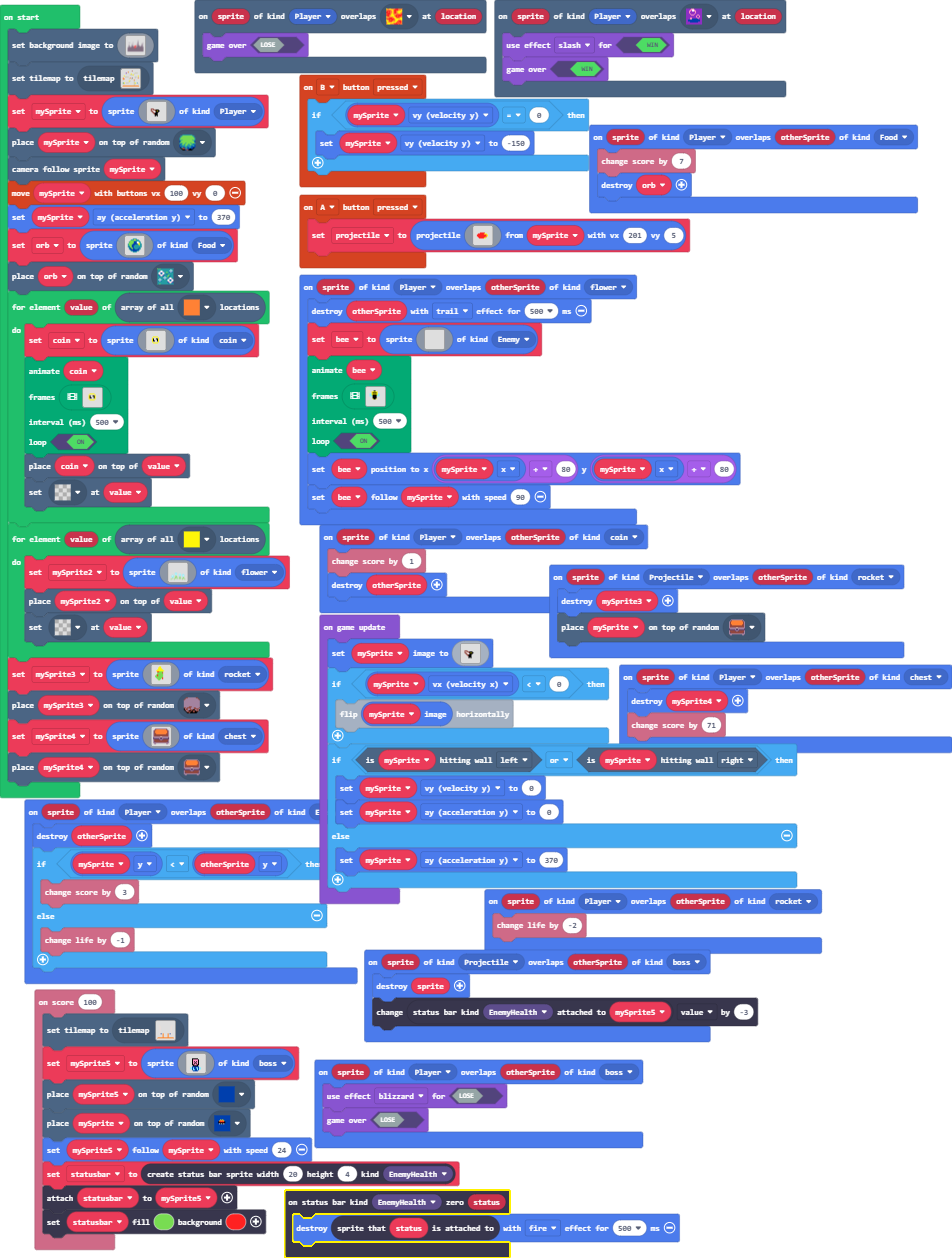
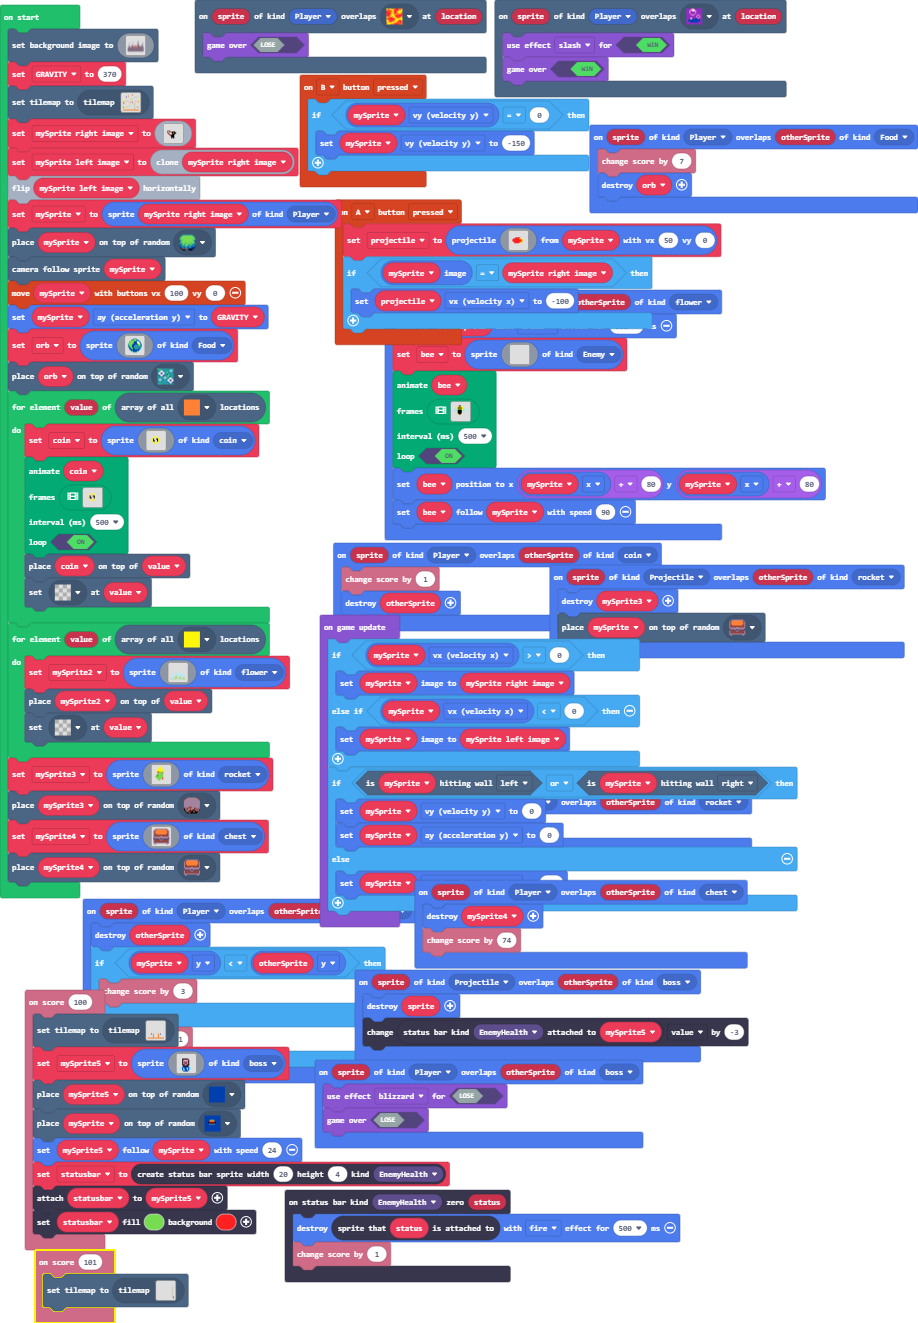
VY

diff --git a/main.ts b/main.ts
@@ -8,6 +8,9 @@ namespace SpriteKind {
 scene.onOverlapTile(SpriteKind.Player, assets.tile`myTile0`, function (sprite, location) {
     game.gameOver(false)
 })
+info.onScore(101, function () {
+    tiles.setCurrentTilemap(tilemap`level6`)
+})
 sprites.onOverlap(SpriteKind.Player, SpriteKind.boss, function (sprite, otherSprite) {
     game.setGameOverEffect(false, effects.blizzard)
     game.gameOver(false)
@@ -39,13 +42,17 @@ controller.A.onEvent(ControllerButtonEvent.Pressed, function () {
         . . . . . . . . . . . . . . . . 
         . . . . . . . . . . . . . . . . 
         . . . . . . . . . . . . . . . . 
-        `, mySprite, 201, 5)
+        `, mySprite, 50, 0)
+    if (mySprite.image == mySprite_right_image) {
+        projectile.vx = -100
+    }
 })
 sprites.onOverlap(SpriteKind.Player, SpriteKind.rocket, function (sprite, otherSprite) {
     info.changeLifeBy(-2)
 })
 statusbars.onZero(StatusBarKind.EnemyHealth, function (status) {
     sprites.destroy(status.spriteAttachedTo(), effects.fire, 500)
+    info.changeScoreBy(1)
 })
 scene.onOverlapTile(SpriteKind.Player, sprites.swamp.swampTile13, function (sprite, location) {
     game.setGameOverEffect(true, effects.slash)
@@ -147,7 +154,7 @@ sprites.onOverlap(SpriteKind.Player, SpriteKind.flower, function (sprite, otherS
 })
 sprites.onOverlap(SpriteKind.Player, SpriteKind.chest, function (sprite, otherSprite) {
     sprites.destroy(mySprite4)
-    info.changeScoreBy(71)
+    info.changeScoreBy(74)
 })
 sprites.onOverlap(SpriteKind.Projectile, SpriteKind.boss, function (sprite, otherSprite) {
     sprites.destroy(sprite)
@@ -175,6 +182,7 @@ let mySprite2: Sprite = null
 let coin: Sprite = null
 let orb: Sprite = null
 let mySprite: Sprite = null
+let mySprite_right_image: Image = null
 scene.setBackgroundImage(img`
     ................................................................................................................................................................
     ................................................................................................................................................................
@@ -297,8 +305,9 @@ scene.setBackgroundImage(img`
     cccccccccccccccccccccccccccccccccccccccccccccccccccccccccccccccccccccccccccccccccccccccccccccccccccccccccccccccccccccccccccccccccccccccccccccccccccccccccccccccc
     cccccccccccccccccccccccccccccccccccccccccccccccccccccccccccccccccccccccccccccccccccccccccccccccccccccccccccccccccccccccccccccccccccccccccccccccccccccccccccccccc
     `)
+let GRAVITY = 370
 tiles.setCurrentTilemap(tilemap`level0`)
-mySprite = sprites.create(img`
+mySprite_right_image = img`
     . . . . . . . . . . . . . . . . 
     . . . . . . . . . . . . . . . . 
     . . . . . . . . . . . . . . . . 
@@ -315,11 +324,14 @@ mySprite = sprites.create(img`
     . . . . . . . . . . . . . . . . 
     . . . . . . . . . . . . . . . . 
     . . . . . . . . . . . . . . . . 
-    `, SpriteKind.Player)
+    `
+let mySprite_left_image = mySprite_right_image.clone()
+mySprite_left_image.flipX()
+mySprite = sprites.create(mySprite_right_image, SpriteKind.Player)
 tiles.placeOnRandomTile(mySprite, sprites.builtin.forestTiles0)
 scene.cameraFollowSprite(mySprite)
 controller.moveSprite(mySprite, 100, 0)
-mySprite.ay = 370
+mySprite.ay = GRAVITY
 orb = sprites.create(img`
     . . . . . . . . . . . . . . . . 
     . . . . . . 6 6 6 6 . . . . . . 
@@ -551,26 +563,10 @@ mySprite4 = sprites.create(img`
     `, SpriteKind.chest)
 tiles.placeOnRandomTile(mySprite4, sprites.dungeon.chestClosed)
 game.onUpdate(function () {
-    mySprite.setImage(img`
-        . . . . . . . . . . . . . . . . 
-        . . . . . . . . . . . . . . . . 
-        . . . . . . . . . . . . . . . . 
-        . . . . . . . . . . . . . . . . 
-        . . . . . . . . . . . . . . . . 
-        . . e e e . . . . . . . . . . . 
-        . . e 1 e e e f f f . . . . . . 
-        . . e e 1 1 e f 5 f f . . . . . 
-        . . . e e 1 1 f f f . . . . . . 
-        . . . . e e f f f . . . . . . . 
-        . . . . . e f f f . . . . . . . 
-        . . . . . . f f f . . . . . . . 
-        . . . . . . f . f . . . . . . . 
-        . . . . . . . . . . . . . . . . 
-        . . . . . . . . . . . . . . . . 
-        . . . . . . . . . . . . . . . . 
-        `)
-    if (mySprite.vx < 0) {
-        mySprite.image.flipX()
+    if (mySprite.vx > 0) {
+        mySprite.setImage(mySprite_right_image)
+    } else if (mySprite.vx < 0) {
+        mySprite.setImage(mySprite_left_image)
     }
     if (mySprite.isHittingTile(CollisionDirection.Left) || mySprite.isHittingTile(CollisionDirection.Right)) {
         mySprite.vy = 0

diff --git a/tilemap.g.ts b/tilemap.g.ts
@@ -95,6 +95,63 @@ namespace myTiles {
 . . . . . . . 2 2 . . . . . . . 
 . . . . . . . . . . . . . . . . 
 `, [myTiles.transparency16,myTiles.tile2,myTiles.tile5,myTiles.tile6,myTiles.tile7], TileScale.Sixteen);
+            case "level5":
+            case "level5":return tiles.createTilemap(hex`1000100000000000000000000000000000000000000000000000000000000000000000000000000000000000000000000000000000000000000000000000000000000000000000000000000000000000000000000000000000000000000000000000000000000000000000000000000000000000000000000000000000000000000000000000000000000000000000000000000000000000000000000000000000000000000000000000000000000000000000000000000000000000000000000000000000000000000000000000000000000000000000000000000000000000000000000000000000000000000000000000000000000000000000000000000000000000`, img`
+. . . . . . . . . . . . . . . . 
+. . . . . . . . . . . . . . . . 
+. . . . . . . . . . . . . . . . 
+. . . . . . . . . . . . . . . . 
+. . . . . . . . . . . . . . . . 
+. . . . . . . . . . . . . . . . 
+. . . . . . . . . . . . . . . . 
+. . . . . . . . . . . . . . . . 
+. . . . . . . . . . . . . . . . 
+. . . . . . . . . . . . . . . . 
+. . . . . . . . . . . . . . . . 
+. . . . . . . . . . . . . . . . 
+. . . . . . . . . . . . . . . . 
+. . . . . . . . . . . . . . . . 
+. . . . . . . . . . . . . . . . 
+. . . . . . . . . . . . . . . . 
+`, [myTiles.transparency16], TileScale.Sixteen);
+            case "level7":
+            case "level7":return tiles.createTilemap(hex`1000100000000000000000000000000000000000000000000000000000000000000000000000000000000000000000000000000000000000000000000000000000000000000000000000000000000000000000000000000000000000000000000000000000000000000000000000000000000000000000000000000000000000000000000000000000000000000000000000000000000000000000000000000000000000000000000000000000000000000000000000000000000000000000000000000000000000000000000000000000000000000000000000000000000000000000000000000000000000000000000000000000000000000000000000000000000000`, img`
+. . . . . . . . . . . . . . . . 
+. . . . . . . . . . . . . . . . 
+. . . . . . . . . . . . . . . . 
+. . . . . . . . . . . . . . . . 
+. . . . . . . . . . . . . . . . 
+. . . . . . . . . . . . . . . . 
+. . . . . . . . . . . . . . . . 
+. . . . . . . . . . . . . . . . 
+. . . . . . . . . . . . . . . . 
+. . . . . . . . . . . . . . . . 
+. . . . . . . . . . . . . . . . 
+. . . . . . . . . . . . . . . . 
+. . . . . . . . . . . . . . . . 
+. . . . . . . . . . . . . . . . 
+. . . . . . . . . . . . . . . . 
+. . . . . . . . . . . . . . . . 
+`, [myTiles.transparency16], TileScale.Sixteen);
+            case "level6":
+            case "level6":return tiles.createTilemap(hex`1000100000000000000000000000000000000000000000000000000000000000000000000000000000000000000000000000000000000000000000000000000000000000000000000000000000000000000001000000000000000000000000000000010000000000000000000000000000000100000000000000000000000000000001000000000000000000000000000000010000000000000000000000000000000100000000000000000000000000000001000000000000000000000000000000010000000000000000000000000000000100000000000000000000000000000001000000000000000000000000000000010300000000000000000000000000000002`, img`
+. . . . . . . . . . . . . . . . 
+. . . . . . . . . . . . . . . . 
+. . . . . . . . . . . . . . . . 
+. . . . . . . . . . . . . . . . 
+. . . . . . . . . . . . . . 2 . 
+. . . . . . . . . . . . . . 2 . 
+. . . . . . . . . . . . . . 2 . 
+. . . . . . . . . . . . . . 2 . 
+. . . . . . . . . . . . . . 2 . 
+. . . . . . . . . . . . . . 2 . 
+. . . . . . . . . . . . . . 2 . 
+. . . . . . . . . . . . . . 2 . 
+. . . . . . . . . . . . . . 2 . 
+. . . . . . . . . . . . . . 2 . 
+. . . . . . . . . . . . . . 2 . 
+. . . . . . . . . . . . . . . . 
+`, [myTiles.transparency16,myTiles.tile1,myTiles.tile2,sprites.swamp.swampTile13], TileScale.Sixteen);
         }
         return null;
     })
